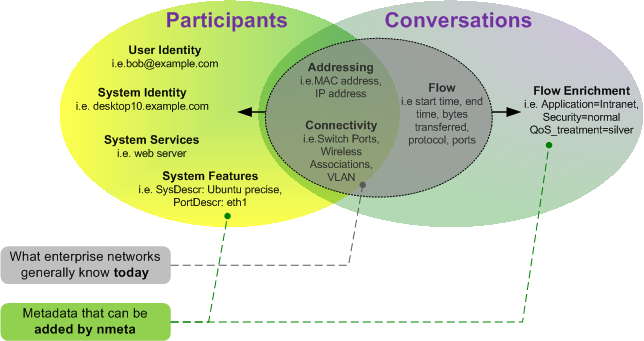
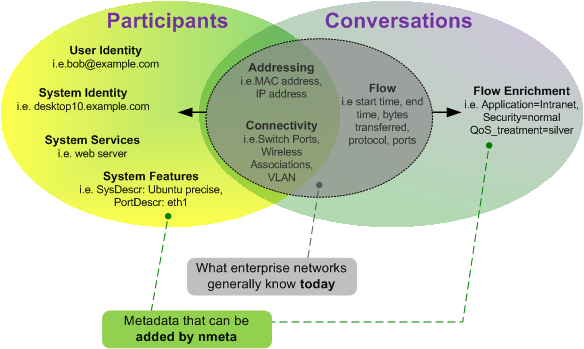
Website Updates
Updated design diagram and develop (contribute) page

diff --git a/develop.html b/develop.html
@@ -50,6 +50,26 @@
   Contributing
 </h1>
 
+<h3>
+  <a id="general-configuration" class="anchor" href="#general-configuration" aria-hidden="true"><span class="octicon octicon-link"></span></a>
+  Contents:
+</h3>
+<p>
+  <a href="#How-To-Contribute">How to Contribute</a>
+  <br>
+  <a href="#Using-Git-Flow">Using Git Flow</a>
+  <br>
+  <a href="#Testing">Learning to Love Automated Testing</a>
+  <br>
+  <a href="#Updating-the-Website">Updating the Website</a>
+  <br>
+</p>
+
+<h2>
+  <a id="How-To-Contribute" class="anchor" href="#How-To-Contribute" aria-hidden="true"><span class="octicon octicon-link"></span></a>
+  How To Contribute
+</h2>
+
 <p>Contributors are very welcome. There's certainly a lot of opportunity to make improvements! Here's how to contribute:
   <ul>
     <li>All development is done on the <a href="https://github.com/mattjhayes/nmeta" target="_blank">Github repo</a></li>
@@ -58,8 +78,8 @@
   </ul>
 </p>
 <h2>
-  <a id="nmeta---network-metadata" class="anchor" href="#nmeta---network-metadata" aria-hidden="true"><span class="octicon octicon-link"></span></a>
-  Using git flow
+  <a id="Using-Git-Flow" class="anchor" href="#Using-Git-Flow" aria-hidden="true"><span class="octicon octicon-link"></span></a>
+  Using Git Flow
 </h2>
 
 <p>Git flow provides branching strategy and release management over the top of git. To set git flow up, go to the nmeta directory and run:</p>
@@ -70,6 +90,11 @@
 <p>Accept the defaults and it is now set up with develop branch selected:</p>
 
 <p><img src="images/develop/git-flow.png" alt="git flow init example"></p>
+
+<h3>
+  <a id="nmeta---network-metadata" class="anchor" href="#nmeta---network-metadata" aria-hidden="true"><span class="octicon octicon-link"></span></a>
+  Start a Git Flow Feature
+</h3>
 
 <p>To start working on a new feature called FEATURE_NAME (substitute your own feature name) enter:</p>
 
@@ -84,15 +109,36 @@
 
 <p><img src="images/develop/git-flow3.png" alt="git flow init example 3"></p>
 
-<p>*** Under Construction!!! ***</p>
+<p>Use Git to commit code as per usual</p>
+
+<h3>
+  <a id="nmeta---network-metadata" class="anchor" href="#nmeta---network-metadata" aria-hidden="true"><span class="octicon octicon-link"></span></a>
+  Finish a Git Flow Feature
+</h3>
+
+<p>When finished with a feature, wrap things up with Git Flow:</p>
+
+<pre><code>git flow feature finish FEATURE_NAME
+</code></pre>
 
 <h2>
-  <a id="nmeta---network-metadata" class="anchor" href="#nmeta---network-metadata" aria-hidden="true"><span class="octicon octicon-link"></span></a>
-  Updates to Website
+  <a id="Testing" class="anchor" href="#Testing" aria-hidden="true"><span class="octicon octicon-link"></span></a>
+  Learning to Love Automated Testing
 </h2>
-<p>The website is in a separate orphan branch called <em>gh-pages</em></p>
+<p>Automated tests are slowly being added into the codebase to both improve reliability of the system, and to speed up acceptance of code updates.</p>
+<p>Tests use <a href="http://nose.readthedocs.org/en/latest/">nose</a></p>
+<p>Tests can be run by running this command in the nmeta directory:</p>
 
-<p>*** Under Construction!!! ***</p>
+<pre><code>nosetests -v
+</code></pre>
+
+
+<h2>
+  <a id="Updating-the-Website" class="anchor" href="#Updating-the-Website" aria-hidden="true"><span class="octicon octicon-link"></span></a>
+  Updating the Website
+</h2>
+
+<p>The website is in a separate orphan branch called <em>gh-pages</em></p>
 
       </section>
     </div>

diff --git a/userguide.html b/userguide.html
@@ -157,10 +157,10 @@ in YAML ("YAML Ain't Markup Language") format
     <td>
       IP source address
       <br>
-      Can be a single address, a network with a mask in CIDR notation or an IP range with two addresses separated by a hyphen
+      Can be a single address, a network with a mask in CIDR notation, or an IP range with two addresses separated by a hyphen
       <br>
 	  Both addresses in a
-      range must be the same type and the second address must be higher than the first
+      range must be the same type, and the second address must be higher than the first
     </td>
     <td>
       ip_src: 192.168.56.12
@@ -177,10 +177,10 @@ in YAML ("YAML Ain't Markup Language") format
     <td>
       IP destination address
       <br>
-      Can be a single address, a network with a mask in CIDR notation or an IP range with two addresses separated by a hyphen
+      Can be a single address, a network with a mask in CIDR notation, or an IP range with two addresses separated by a hyphen
       <br>
       Both addresses in a
-      range must be the same type and the second address must be higher than the first
+      range must be the same type, and the second address must be higher than the first
     </td>
     <td>
       ip_dst: 192.168.57.40

diff --git a/design.html b/design.html
@@ -51,10 +51,11 @@
 </h1>
 <p>Here's an overview of how nmeta hangs together:</p>
 <p><img src="images/system/nmeta_logical_1.png" alt="System Overview 1"></p>
+<em>(Click to Enlarge)</em>
 
 <p>And a more detailed view:</p>
 <p><a href="design-image-logical.html" target="_blank"><img src="images/system/nmeta_logical_2.png" alt="System Overview 2"></a></p>
-
+<em>(Click to Enlarge)</em>
 <p>*** Under Construction!!! ***</p>
 
       </section>
